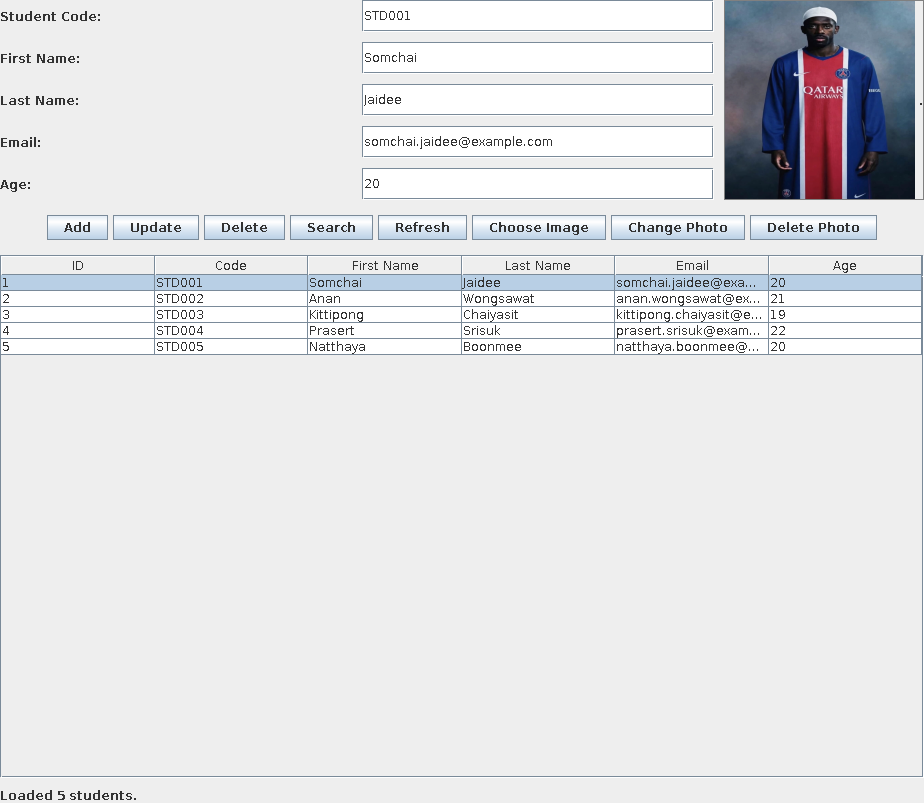
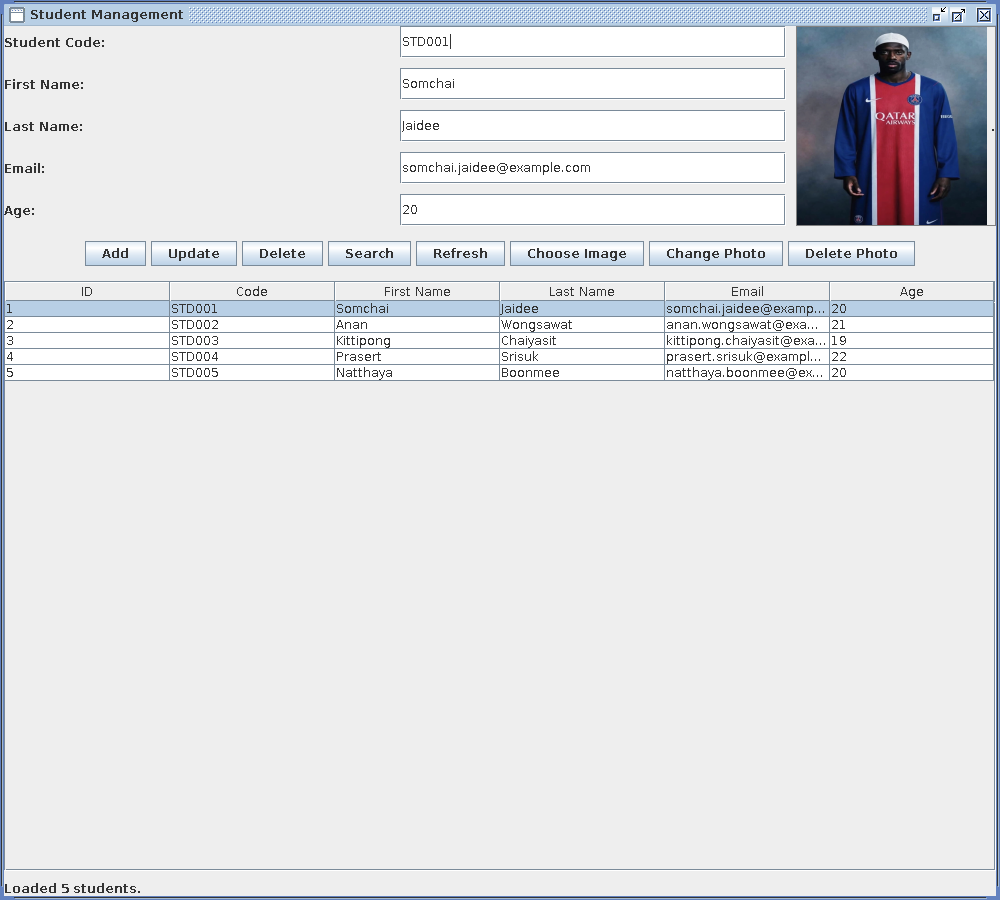
Update README title and screenshot

Changed region(s): [[0.0, 0.0, 1.0, 1.0]]

diff --git a/java_database/jdbc_lab/README.md b/java_database/jdbc_lab/README.md
@@ -1,6 +1,6 @@
 # JDBC Lab
 
-โปรเจกต์ฝึก JDBC ตามแผน JDBC Week 5
+โปรเจกต์ฝึก JDBC
 
 ## About
 **ระบบจัดการข้อมูลนักศึกษา (Student Management)** แอปเดสก์ท็อปด้วย Java Swing ที่เชื่อมต่อ MySQL ผ่าน JDBC
@@ -16,7 +16,7 @@
 - ตรวจข้อมูลก่อนบันทึก (ช่องว่าง อายุ รหัสหรืออีเมลซ้ำ) และแจ้งผลที่แถบสถานะด้านล่าง
 - ใช้ PreparedStatement ทุกคำสั่ง SQL และอ่านค่าเชื่อมต่อจาก environment variable
 
-## Roadmap (JDBC Week 5)
+## Roadmap
 
 **Phase 1: เตรียมฐานข้อมูล**
 - [x] เชื่อม MySQL ด้วย `Db.connect()` และเข้าใจโครงสร้างตาราง `students`
